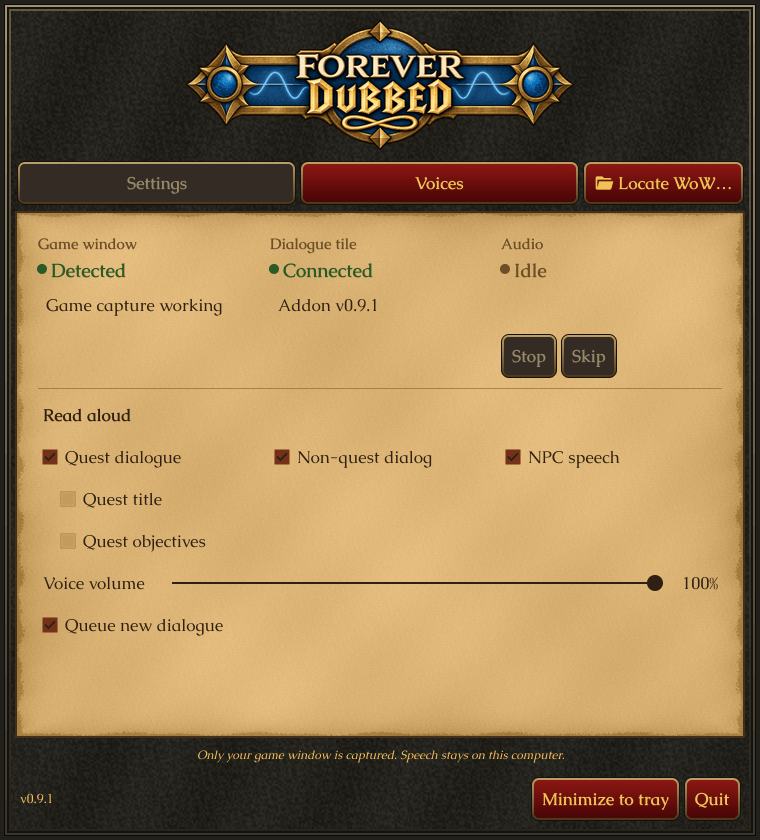
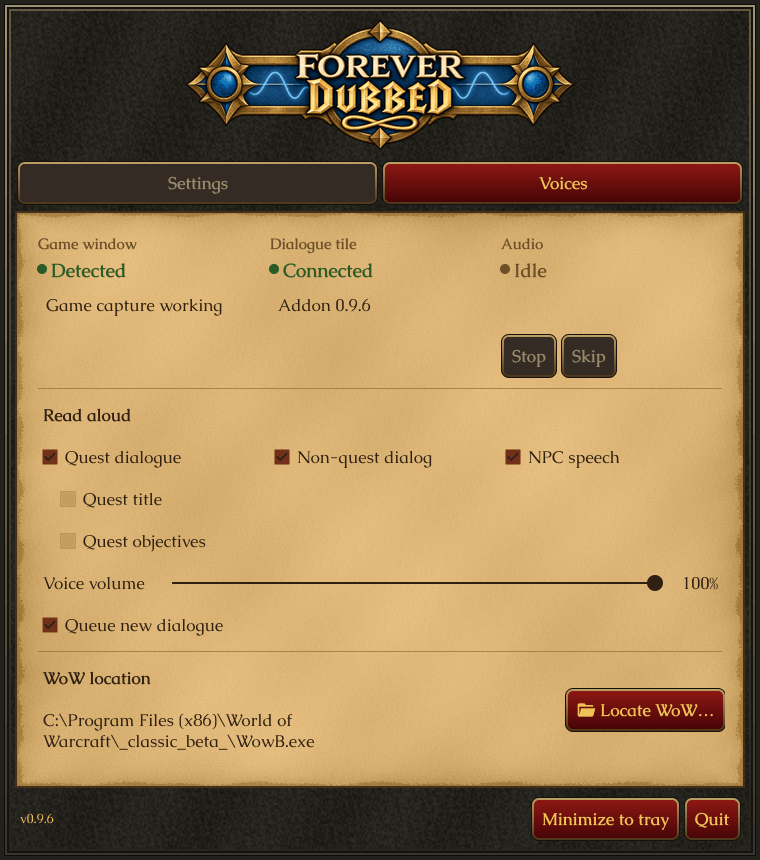
new screenshots

diff --git a/website/index.html b/website/index.html
@@ -32,7 +32,7 @@
         <ul class="hero-perks" aria-label="Highlights"><li>Local voice generation</li><li>Automatic addon installation</li><li>Race &amp; gender voices</li></ul>
       </div>
       <figure class="hero-preview">
-        <a class="screenshot-link" href="assets/settings.png" aria-label="View the desktop settings screenshot full size"><img src="assets/settings.png" alt="Forever Dubbed Settings showing game connection, Read aloud choices, voice volume, and dialogue queue controls" width="760" height="840" fetchpriority="high"></a>
+        <a class="screenshot-link" href="assets/settings.png" aria-label="View the desktop settings screenshot full size"><img src="assets/settings.png" alt="Forever Dubbed Settings showing game connection, Read aloud choices, voice volume, dialogue queue controls, and the WoW executable location" width="760" height="860" fetchpriority="high"></a>
         <figcaption>The desktop companion app</figcaption>
       </figure>
     </section>
@@ -52,7 +52,7 @@
 
     <section class="voices-section wrap" aria-labelledby="voices-title">
       <figure class="voice-preview">
-        <a class="screenshot-link" href="assets/voices.png" aria-label="View the desktop Voices tab screenshot full size"><img src="assets/voices.png" alt="Forever Dubbed Voices tab with male and female voice preferences for each race" width="760" height="840" loading="lazy"></a>
+        <a class="screenshot-link" href="assets/voices.png" aria-label="View the desktop Voices tab screenshot full size"><img src="assets/voices.png" alt="Forever Dubbed Voices tab with male and female voice preferences for each race" width="760" height="860" loading="lazy"></a>
         <figcaption>The Voices tab</figcaption>
       </figure>
       <div class="voices-copy"><p class="eyebrow">Set the tone.</p><h2 id="voices-title">An adventure that<br> sounds like yours.</h2><p class="lead">Let every conversation play out, or just listen to the parts you care about.</p>

diff --git a/internal/desktop/screenshots_test.go b/internal/desktop/screenshots_test.go
@@ -1,0 +1,73 @@
+//go:build gui
+
+package desktop
+
+import (
+	"image/png"
+	"os"
+	"path/filepath"
+	"testing"
+
+	"foreverdubbed/internal/appstate"
+	"foreverdubbed/internal/buildinfo"
+	"foreverdubbed/internal/speech"
+	"fyne.io/fyne/v2/test"
+	"fyne.io/fyne/v2/theme"
+)
+
+// Opt-in capture of the real desktop widgets with reproducible example state.
+// This needs neither a running game nor the native speech/capture backends.
+func TestWebsiteScreenshots(t *testing.T) {
+	directory := os.Getenv("FDB_WEBSITE_SCREENSHOTS_DIR")
+	if directory == "" {
+		t.Skip("set FDB_WEBSITE_SCREENSHOTS_DIR to refresh the website screenshots")
+	}
+	config, err := speech.Load("../../tts/voices.json")
+	if err != nil {
+		t.Fatal(err)
+	}
+	var races []string
+	for race := range config.Races {
+		races = append(races, race)
+	}
+	a := test.NewApp()
+	defer a.Quit()
+	a.Settings().SetTheme(companionTheme{theme.DefaultTheme()})
+	state := appstate.New("WowB.exe", "pocket", false)
+	state.SetQueueSpeech(true)
+	state.Update(func(s *appstate.Snapshot) {
+		s.Ready, s.Window, s.Tile = true, true, true
+		s.Audio = "Idle"
+		s.AddonVersion = buildinfo.Version
+		s.WoWPath = `C:\Program Files (x86)\World of Warcraft\_classic_beta_\WowB.exe`
+		s.DetectedExecutable = s.WoWPath
+	})
+	d := newDashboard(buildinfo.Version, func() {}, func() {}, state.StopAudio, state.SkipAudio,
+		state.SetQueueSpeech, state.SetSpeechFilters, races, nil, state.SetVoiceChoices)
+	w := a.NewWindow("ForeverDubbed")
+	defer w.Close()
+	w.SetContent(d.root)
+	w.Resize(defaultWindowSize)
+	d.render(state.Snapshot())
+	if err := os.MkdirAll(directory, 0755); err != nil {
+		t.Fatal(err)
+	}
+	capture := func(name string) {
+		t.Helper()
+		file, err := os.Create(filepath.Join(directory, name))
+		if err != nil {
+			t.Fatal(err)
+		}
+		encodeErr := png.Encode(file, w.Canvas().Capture())
+		closeErr := file.Close()
+		if encodeErr != nil {
+			t.Fatal(encodeErr)
+		}
+		if closeErr != nil {
+			t.Fatal(closeErr)
+		}
+	}
+	capture("settings.png")
+	test.Tap(d.tabVoices)
+	capture("voices.png")
+}

diff --git a/website/README.md b/website/README.md
@@ -38,6 +38,15 @@ Forever Dubbed's claims follow the root README and `addon/ForeverDubbed/ForeverD
 
 `assets/settings.png` and `assets/voices.png` are captures of the actual Fyne widgets rendered by the desktop test driver using example connection state, not captures of a running WoW session. Replace or supplement these with live screenshots as needed. An in-game screenshot showing a quest and the data square would be useful for the how-it-works section.
 
+Regenerate both screenshots from the repository root after desktop UI changes:
+
+```sh
+FDB_WEBSITE_SCREENSHOTS_DIR="$PWD/website/assets" \
+  go test -tags 'gui ci' ./internal/desktop -run '^TestWebsiteScreenshots$' -count=1
+```
+
+This uses the app's default window size, bundled version and race list, and a sample Windows game path. Keep the screenshot dimensions in `index.html` aligned with the generated images (currently 760 × 860).
+
 The Caudex fonts match the app and are served locally; their license is included in `assets/fonts/LICENSE.txt`. No external fonts, analytics, or JavaScript libraries are loaded by the site.
 
 ## Audio examples
